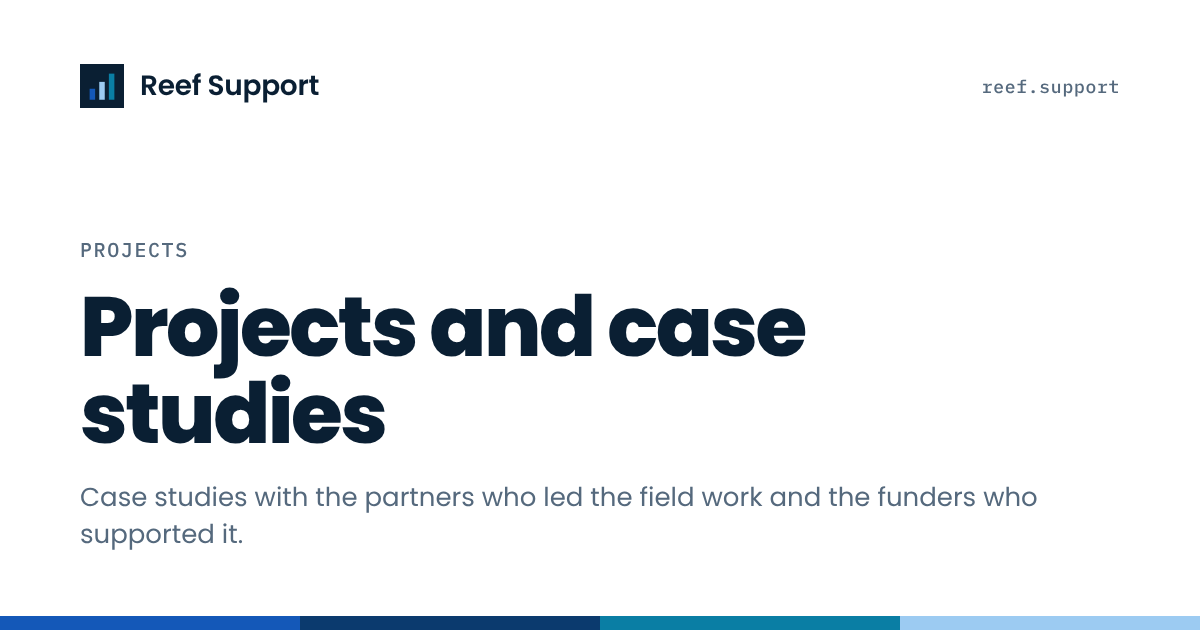
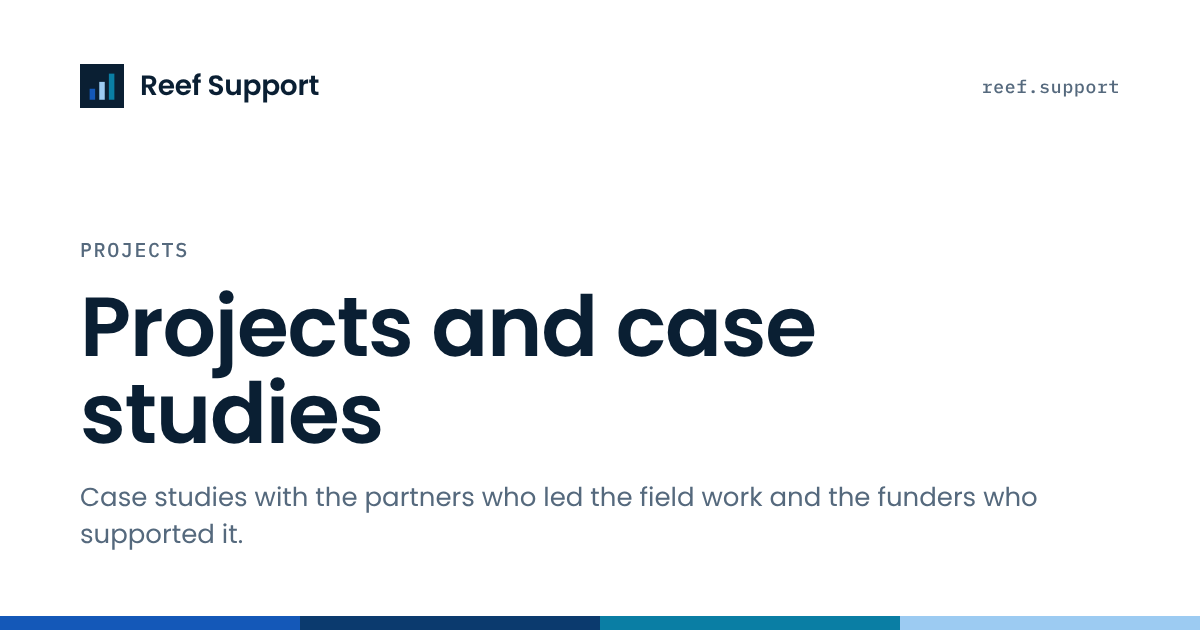
Lighter, scientific look and review fixes
- Headlines at 600 via --w-display token; drop the 800 font file; OG images regenerated
- Practice tiles as white cards with a colour rule instead of filled blocks
- Coral AI figure: polygon masks, thin outlines, grid and ticks, mono labels
- Lighter marks in practice-area figures; newsletter as a light band
- Active nav state fixed for .html build paths (header, sub-nav, breadcrumbs)
- Hide bare 'to now' years in production; search ignores placeholders and partner walls
- Partner wall borders, 3-up tile grid, team page without duplicate portraits
- Tighter mobile section spacing, text-wrap: pretty on paragraphs
- Accuracy review of the agents' work; one unsupported phrase removed

Claude-Session: https://claude.ai/code/session_01J7RnXSYrRZBJBag53KKjAc

Changed region(s): [[0.0617, 0.4524, 0.6783, 0.6032], [0.0617, 0.6032, 0.3392, 0.7238]]

diff --git a/src/styles/global.css b/src/styles/global.css
@@ -19,6 +19,7 @@
   --s-1: 8px; --s-2: 16px; --s-3: 24px; --s-4: 32px; --s-5: 48px; --s-6: 64px; --s-7: 96px; --s-8: 128px;
   --max: 1200px; --measure: 680px; --gutter: 24px; --margin: 16px; --radius: 0; --bar: 6px;
   --header-h: 68px;
+  --w-display: 600; --ls-display: -0.015em;
 }
 @media (min-width: 640px) { :root { --margin: 32px; } }
 @media (min-width: 1024px) { :root { --margin: 64px; } }
@@ -36,7 +37,7 @@ h1, h2, h3 { font-weight: 600; text-wrap: balance; margin: 0; overflow-wrap: bre
 h1 { font-size: var(--fs-h1); line-height: 1.1; letter-spacing: -0.015em; }
 h2 { font-size: var(--fs-h2); line-height: 1.15; letter-spacing: -0.015em; }
 h3 { font-size: var(--fs-h3); line-height: 1.3; letter-spacing: -0.01em; font-weight: 600; }
-p { margin: 0 0 var(--s-2); max-width: var(--measure); }
+p { margin: 0 0 var(--s-2); max-width: var(--measure); text-wrap: pretty; }
 a { color: inherit; transition: color 150ms, text-decoration-color 150ms, text-underline-offset 150ms; }
 a:hover { color: var(--teal); }
 :focus-visible { outline: 2px solid var(--ink); outline-offset: 2px; }
@@ -49,6 +50,7 @@ button { font: inherit; color: inherit; }
 }
 .section { padding-block: 72px; }
 .section--tight { padding-block: var(--s-5); }
+@media (max-width: 600px) { .section { padding-block: var(--s-5); } .section--tight { padding-block: var(--s-4); } }
 
 .kicker {
   display: flex; align-items: center; gap: var(--s-1);
